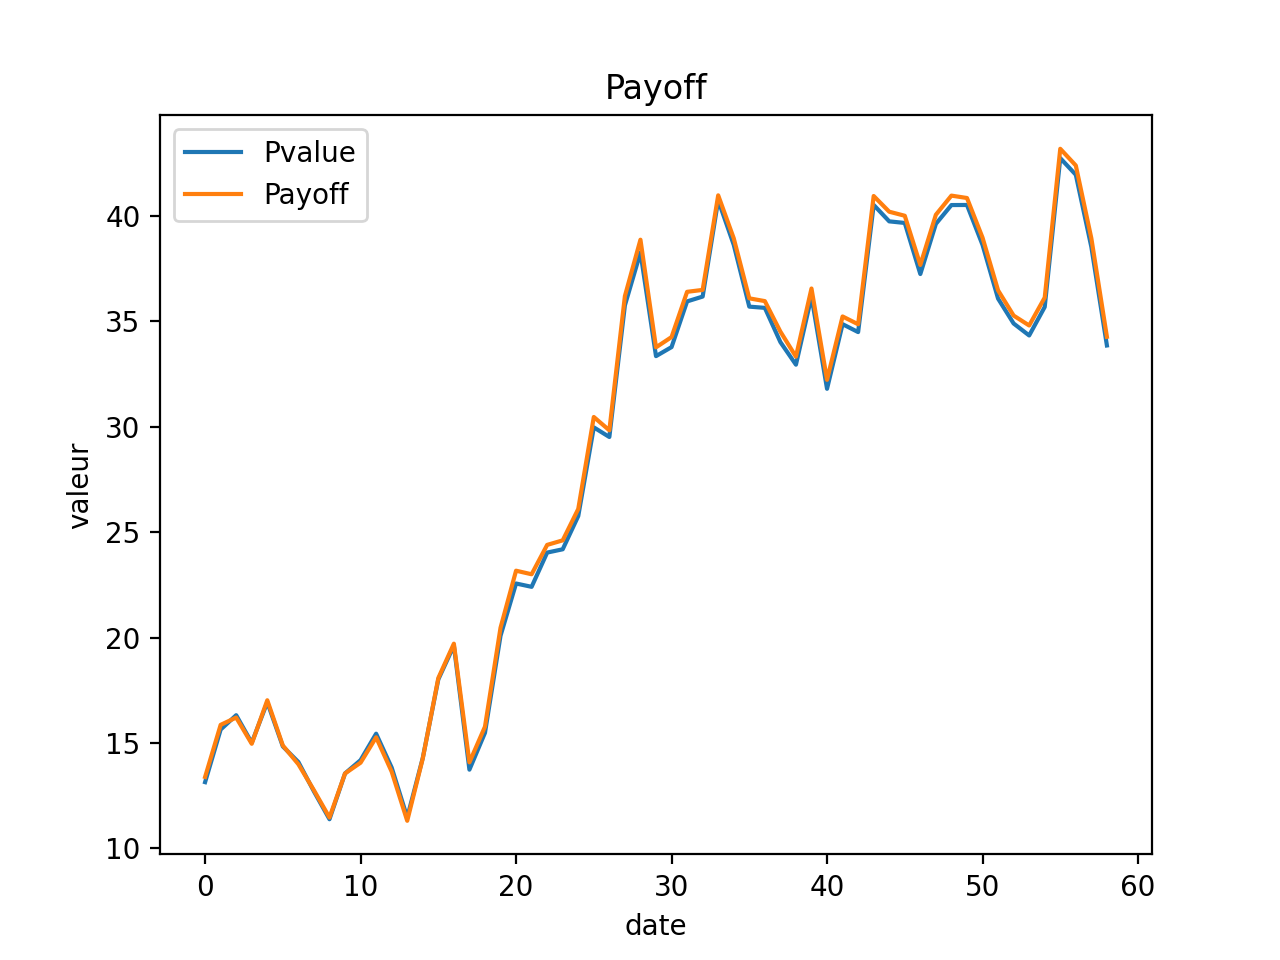
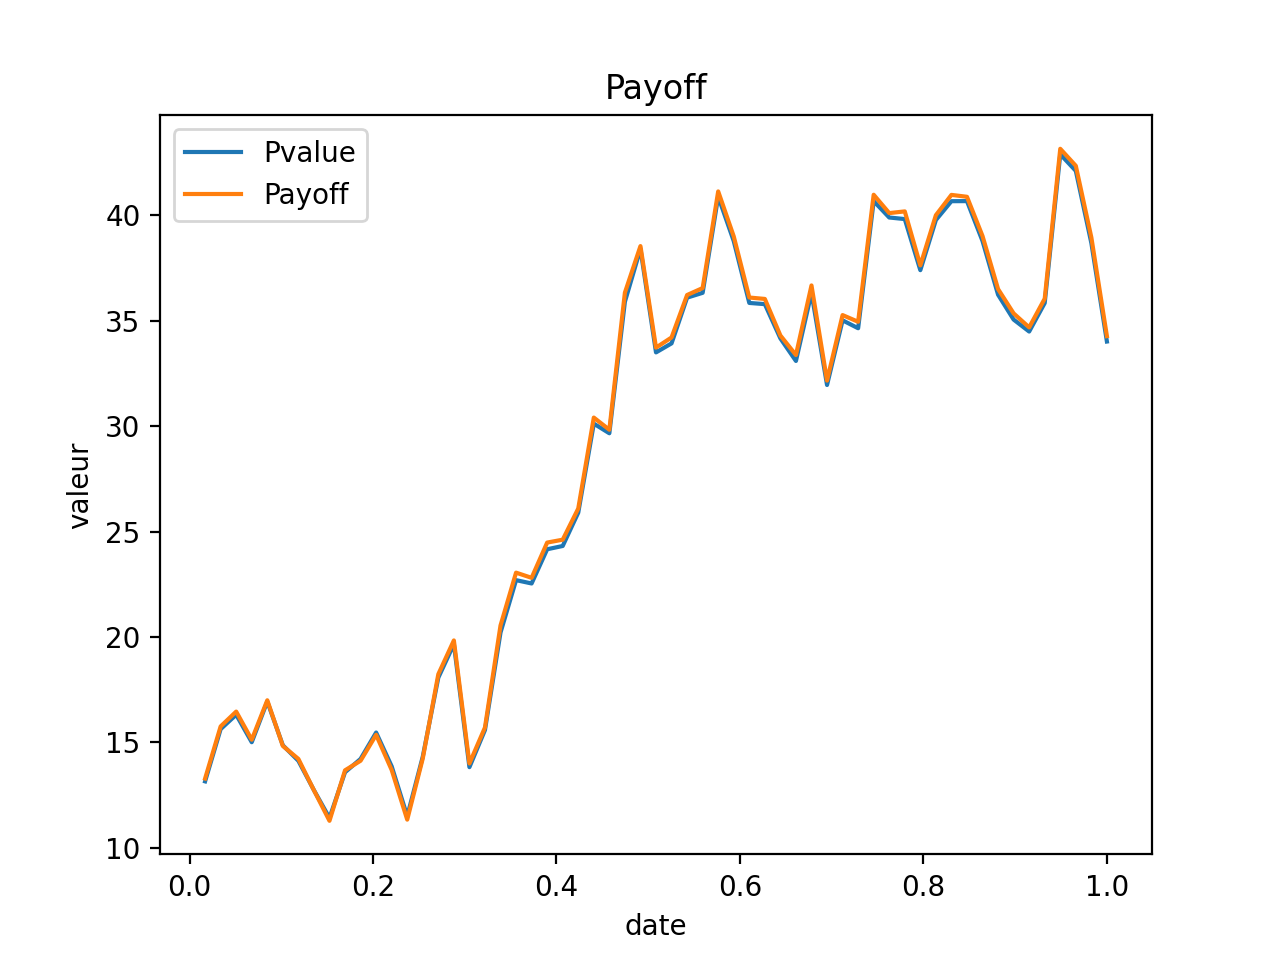
maj des courbes

diff --git a/pricer_skel/src/montecarlo/MonteCarlo.cpp b/pricer_skel/src/montecarlo/MonteCarlo.cpp
@@ -221,6 +221,11 @@ void MonteCarlo::pAndL(int nbHedgeDate, double &errorHedge, PnlMat *marketData, 
     if (fp == NULL){
     std::cout << "Impossible d'ouvrir le fichier en écriture !" << std::endl;}
 
+    FILE * Pdates;
+    Pdates = fopen ("dates.txt", "wt");
+    if (Pdates == NULL){
+    std::cout << "Impossible d'ouvrir le fichier en écriture !" << std::endl;}
+
     double V = 0.;
     double prix = 0.;
     double std_dev = 0.;
@@ -281,7 +286,7 @@ void MonteCarlo::pAndL(int nbHedgeDate, double &errorHedge, PnlMat *marketData, 
 /////////////////////////////////////////////////////////////////////////////////////////////////////////////////
         fprintf(f, "%lf \n", valeurPort);
         fprintf(fp, "%lf \n", prix);
-
+        fprintf(Pdates, "%lf \n", tbrut *TOverH);
         if (t % TOverN == 0 && subPast->m < past->m) // le t est un ti, le nombre de ligne de subPast doit être strictement inférieur
         // a celui de past, sinon cela veut dire qu'on est à t=T;
         {
@@ -293,6 +298,7 @@ void MonteCarlo::pAndL(int nbHedgeDate, double &errorHedge, PnlMat *marketData, 
     }
     fclose(f);
     fclose(fp);
+    fclose(Pdates);
 
     errorHedge = V + pnl_vect_scalar_prod(delta, &vecLine) - prodd_->payoff(past); // calcule du PnL
     pnl_vect_free(&delta);

diff --git a/pricer_skel/src/strategies/simple.cpp b/pricer_skel/src/strategies/simple.cpp
@@ -8,6 +8,7 @@
 #include "financialProducts/Performance.hpp"
 #include "spdlog/log.hpp"
 #include <map>
+#include<cstdio>
 
 using namespace std;
 
@@ -136,6 +137,16 @@ int main(int argc, char **argv)
     mc->pAndL(H - 1, errorHedge, path, 1);
 
     SPDLOG_LOGGER_INFO(_logger, "ErrorHedge => {}", errorHedge);
+
+    FILE * Pdatesfile;
+    Pdatesfile = fopen ("dates.txt", "wt");
+    if (Pdatesfile == NULL){
+    std::cout << "Impossible d'ouvrir le fichier en écriture !" << std::endl;}
+
+    for (int i = 0; i< Pdates.size(); i++){
+        
+        fprintf(Pdatesfile, "%s \n", Pdates[i].c_str());
+    }
 
     pnl_vect_free(&volatilities);
     pnl_mat_free(&path); 

diff --git a/pricer_skel/scripts/printCurve.py b/pricer_skel/scripts/printCurve.py
@@ -4,12 +4,16 @@ import pandas as pd
 import sys
 
 argtitle = sys.argv[1]
+x = pd.read_csv("../build/dates.txt", header = None)
+plt.rcParams["figure.figsize"] = (200, 200)
+if( x[0].dtypes != "double" ):
+    pd.to_datetime(x[0])
 
 for i, arg in enumerate(sys.argv):
     if i >=1:
         data = pd.read_csv(arg, header = None)
         arg = arg[9:len(arg) - 4]
-        plt.plot(data, label = arg)
+        plt.plot(x[0],data[0], label = arg)
         plt.legend()
 plt.xlabel("date")
 plt.ylabel("valeur")
